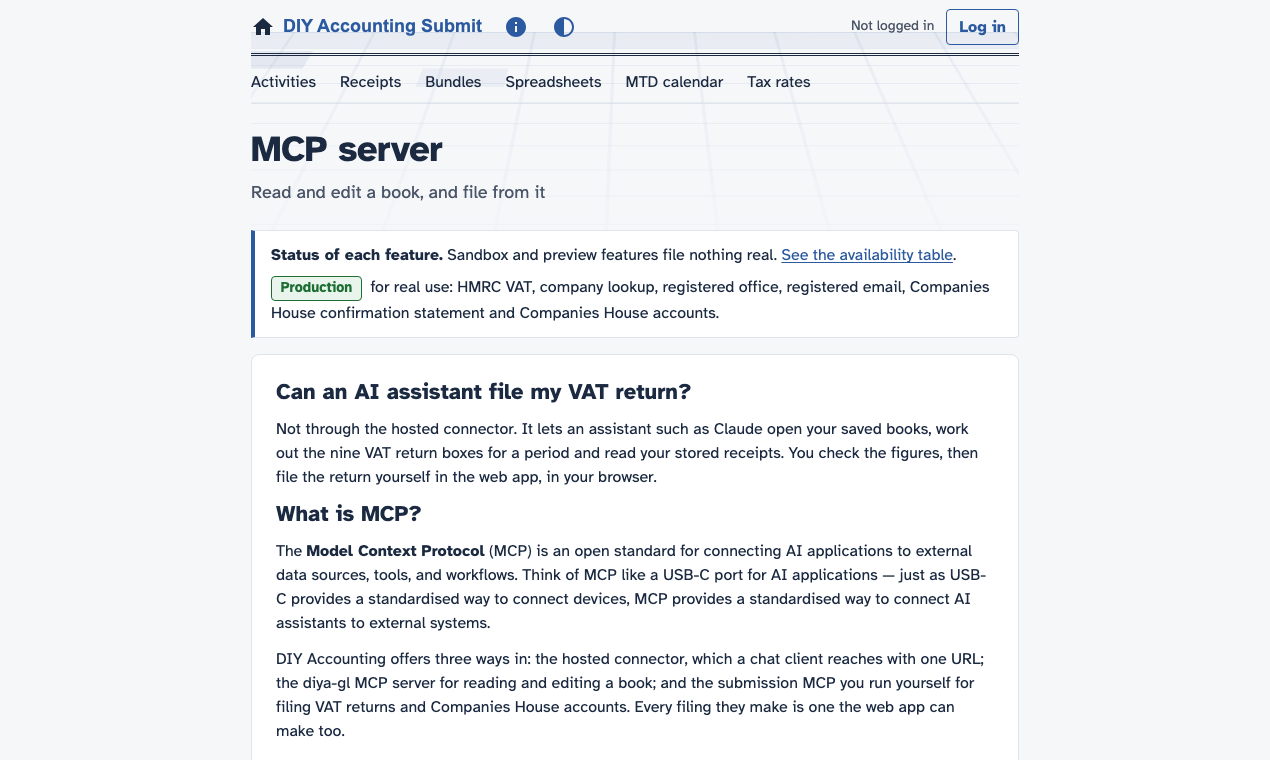
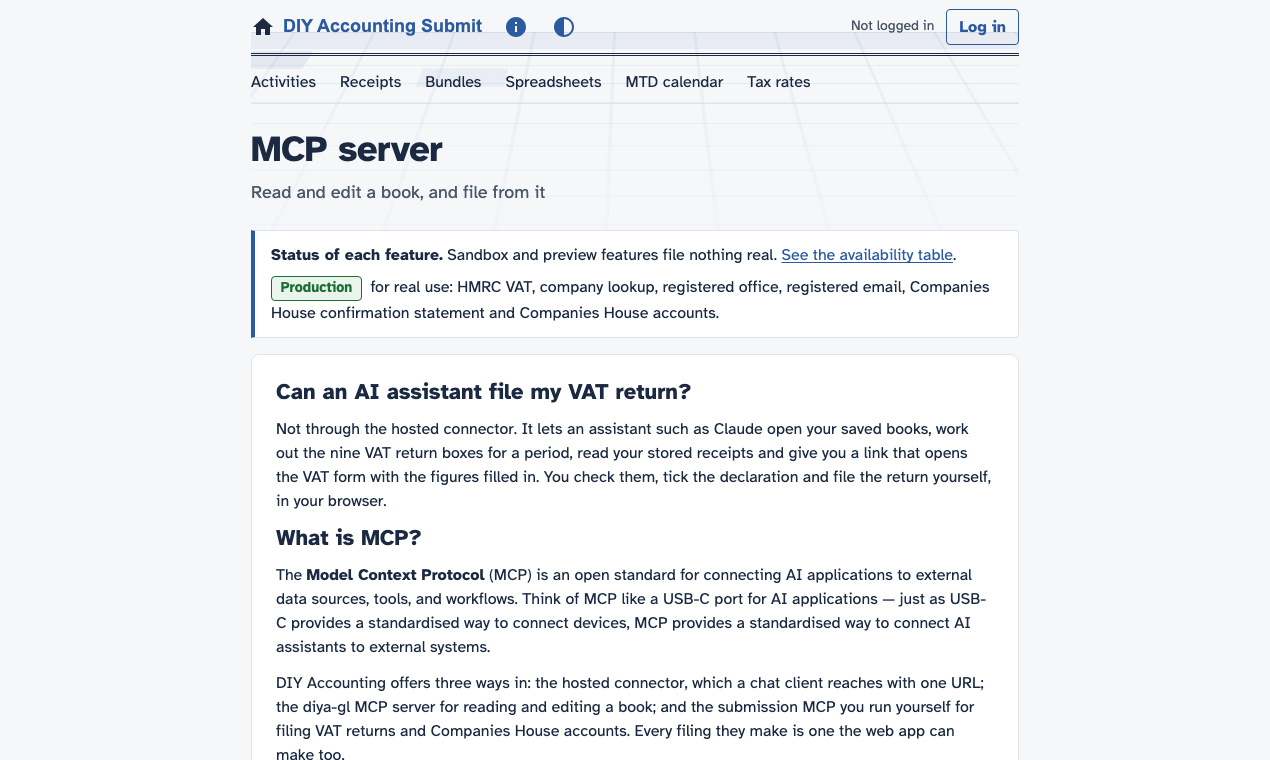
OS30. The capture workflow can record the hand-off script; gallery 1 is retaken
video-capture.yml offers assistant-vat-handoff as a script choice, so the
launch recording can be dispatched on ci once this is on main. Gallery 1
is a new shot of the connector page on prod, which now names the hand-off
link. The README's retake list keeps gallery 3 only: it is cut from the
recording's frames, so it waits for the recording.

Claude-Model: claude-sonnet-5-5
Claude-Session: https://claude.ai/code/session_01GFg5yRoELaQkhVhbRr5rZ9

Changed region(s): [[0.215, 0.575, 0.7677, 1.0]]

diff --git a/web/marketing/launch/README.md b/web/marketing/launch/README.md
@@ -20,7 +20,7 @@ Product name, descriptions and price text come from the register's `submit` prod
 
 ## Images to retake
 
-Retake `images/gallery-1-connector-page.png` and `images/gallery-3-form-and-receipt.png`. Gallery 1 shows the `mcp.html` answer that begins "Not through the hosted connector", which now names the link. Gallery 3 shows a sandbox receipt, and a prod filing gives a better one.
+Retake `images/gallery-3-form-and-receipt.png` from the frames of the ci recording of `assistant-vat-handoff`. It now shows a sandbox receipt from the guide screenshots and the page says so.
 
 ## Limits, read on 2026-11-13
 
